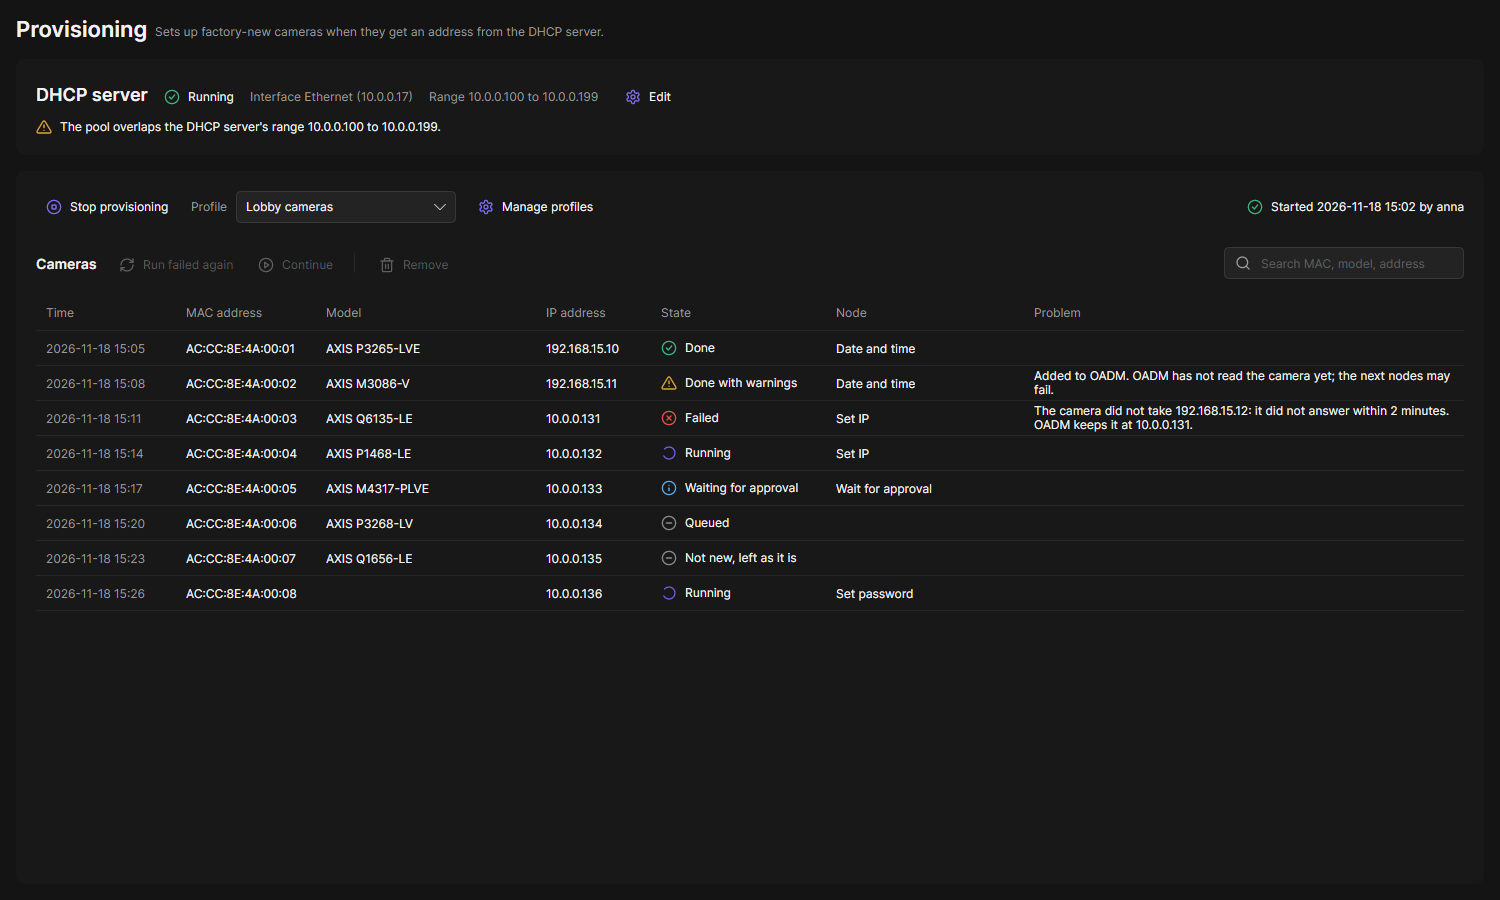
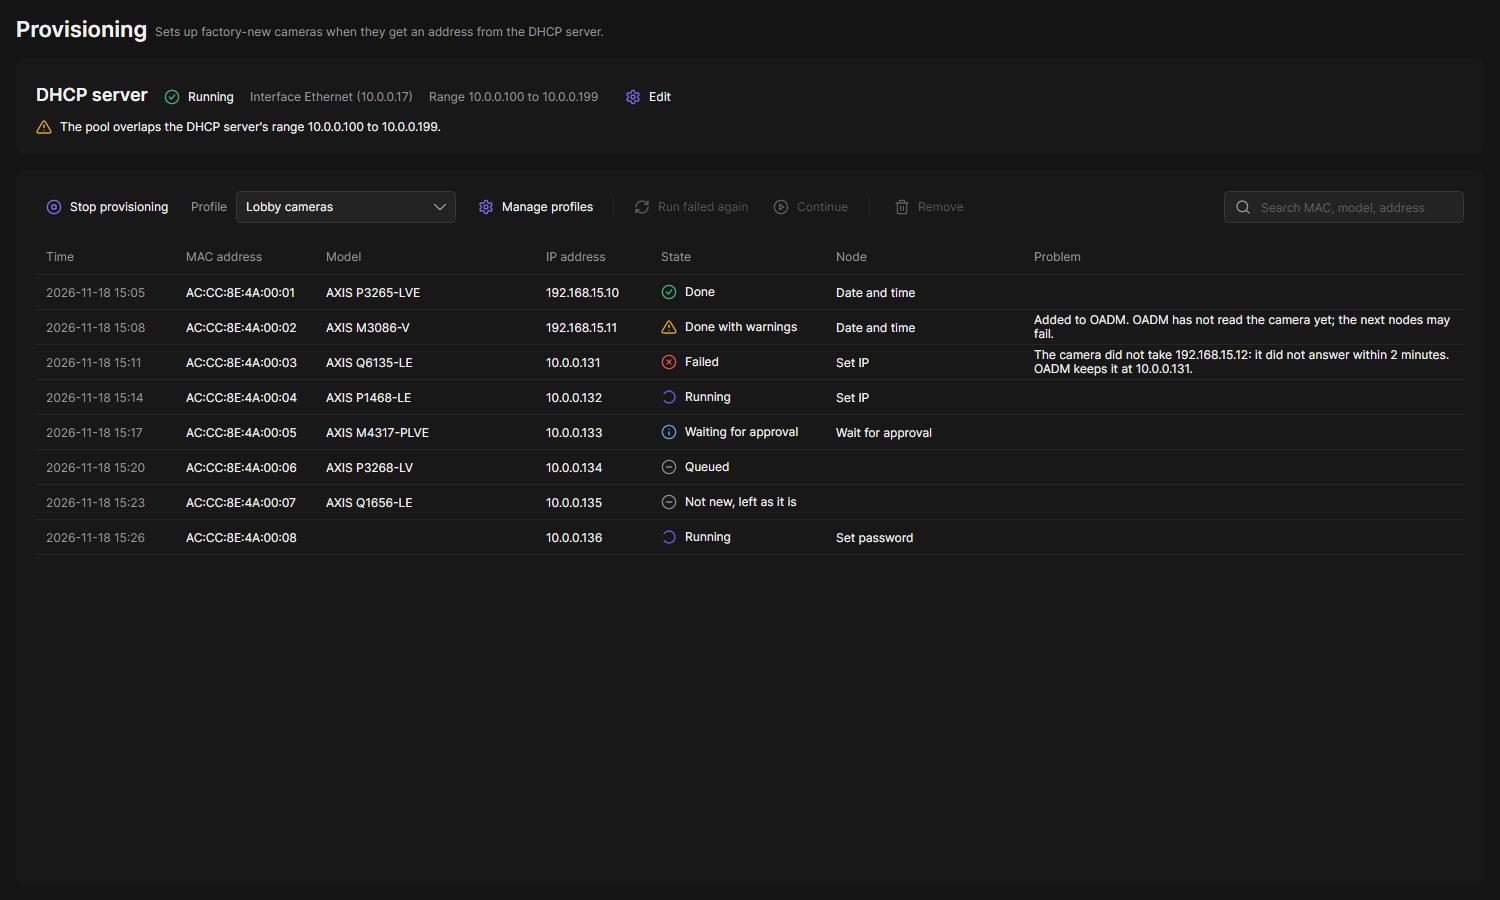
feat(provisioning): start, profiles, camera actions and search in one row

diff --git a/docs/spec/provisioning.md b/docs/spec/provisioning.md
@@ -42,8 +42,8 @@ server's settings.
   server first.").
 - **Start provisioning / Stop provisioning**, the **active profile** (several profiles, one active) and **Manage profiles**
   (a dialog: every profile with its number of nodes and its state, Active or Has errors; New and Edit open the profile
-  editor, Activate, Delete with a red confirmation). While started, the right end of that row says "Started" with the
-  start time and who started it; a session lasts until Stop, also across a server restart.
+  editor, Activate, Delete with a red confirmation), in one row with the camera actions (Run failed again, Continue,
+  Remove) and the search at the right end. A session lasts until Stop, also across a server restart.
   Start warns (Start stays possible) when the Set IP pool overlaps the DHCP range.
 - **Cameras**: virtualized table, one row per camera that started a flow: the time it got its row, MAC, model, address,
   state (Queued, Running node, Done, Done with warnings, Failed), the node it is on, the problem. The serial number is

diff --git a/plugins/Oadm.Plugins.Provisioning/README.md b/plugins/Oadm.Plugins.Provisioning/README.md
@@ -125,7 +125,8 @@ The engine is the node's `INodeHost`: `AutoAdd`, `Tasks`, `Devices`, `Time`, `Op
   own page (`OpenAsync("plugin:oadm.dhcp-server")`), never a copy of its form; the pool overlap warning below.
 - **Toolbar**: Start provisioning (disabled with the reason as tooltip: no DHCP server, no active profile, profile with
   errors), Stop provisioning (confirmed), the active profile (choosing one calls `activateProfile`, a refusal goes back),
-  Manage profiles; the state chip at the right end.
+  Manage profiles, then the camera actions and the search at the right end, all in one row (the buttons go into the
+  overflow menu when the flow card leaves too little room).
 - **Manage profiles** (`ProfilesWindow`, `ProfilesDialogViewModel`): the profiles with their nodes and state (Active, Has
   errors); New and Edit (also a double click) open the profile editor over it, Activate (off for a draft or the active
   one, the reason as tooltip), Delete (red confirmation); a refusal directly below the list.
